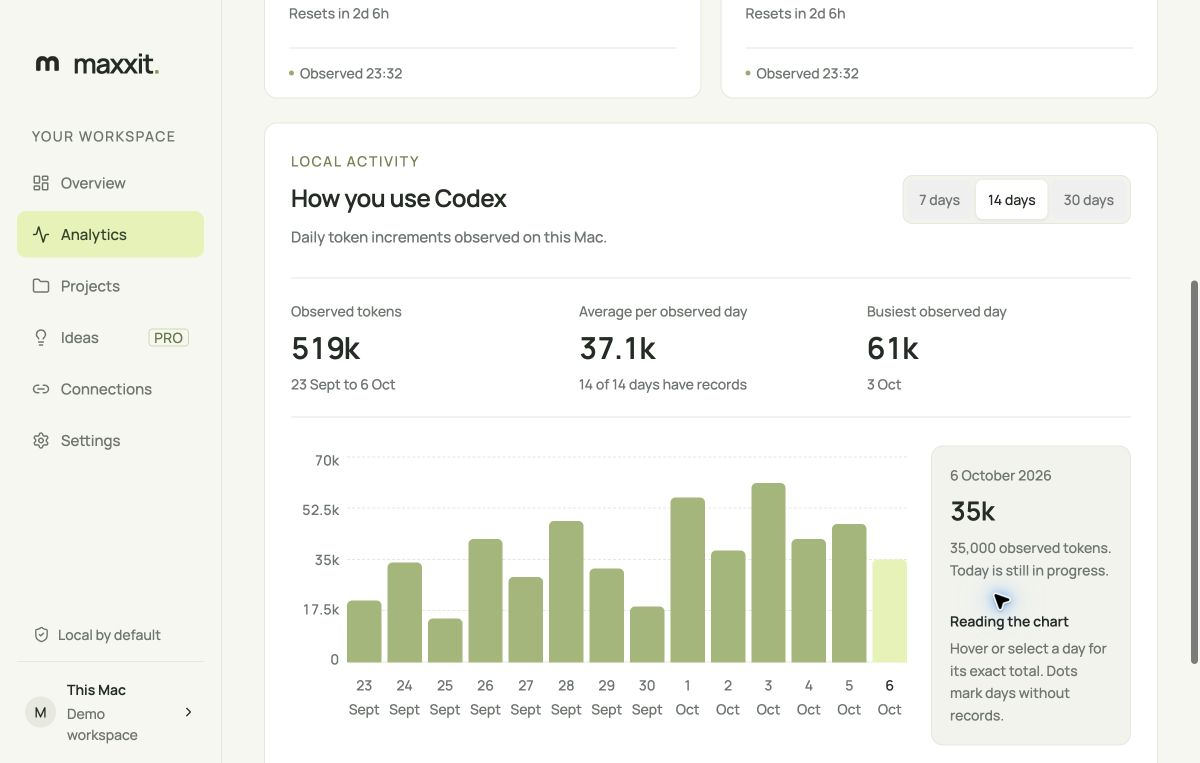
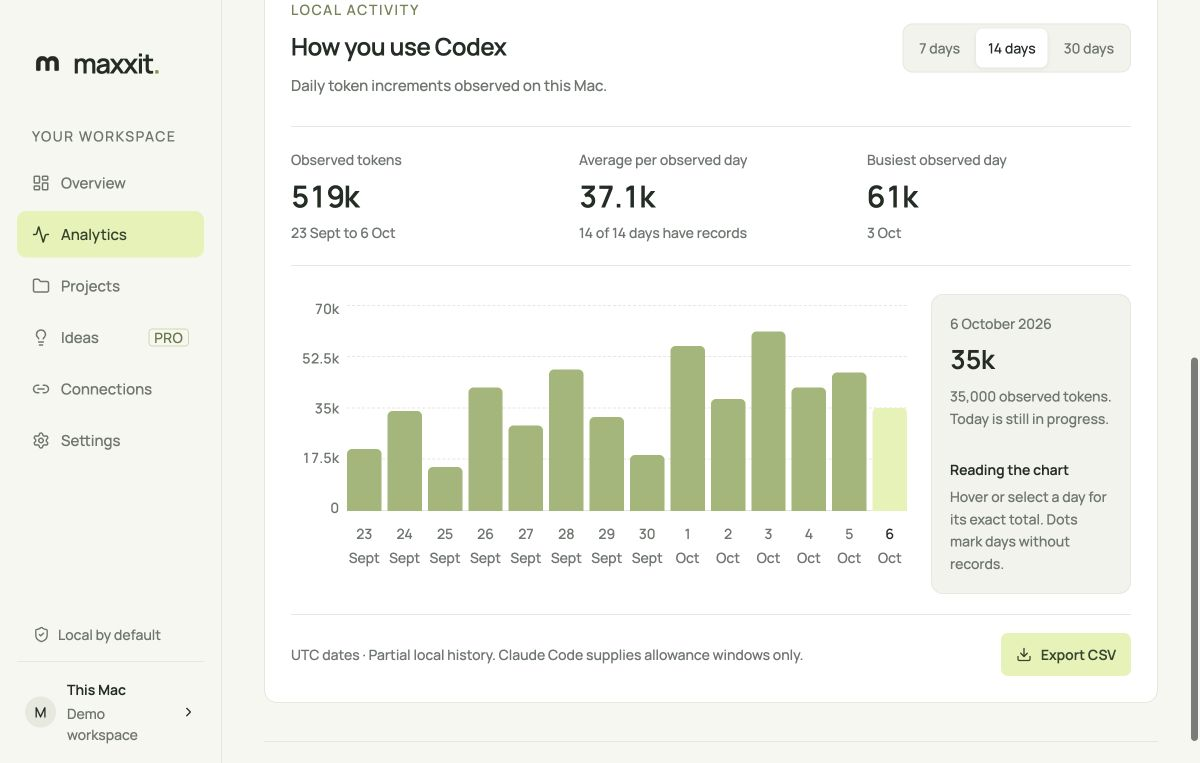
fix: save analytics exports through the native Mac dialog

diff --git a/src/TokenAnalytics.tsx b/src/TokenAnalytics.tsx
@@ -1,4 +1,5 @@
-import { useState } from "react";
+import { useEffect, useRef, useState } from "react";
+import { invoke, isTauri } from "@tauri-apps/api/core";
 import { Activity, Download } from "lucide-react";
 import { tokenSeries, tokenSummary, type TokenDay } from "./analytics";
 
@@ -18,6 +19,12 @@ const dateLabel = (date: string, full = false) =>
 export function TokenAnalytics({ records }: { records: TokenDay[] }) {
   const [range, setRange] = useState(14);
   const [selected, setSelected] = useState<string | null>(null);
+  const chartScroll = useRef<HTMLDivElement>(null);
+  const [exportStatus, setExportStatus] = useState("");
+  useEffect(() => {
+    if (chartScroll.current)
+      chartScroll.current.scrollLeft = chartScroll.current.scrollWidth;
+  }, [range]);
   const series = tokenSeries(records, range);
   const summary = tokenSummary(series);
   const day =
@@ -30,10 +37,22 @@ export function TokenAnalytics({ records }: { records: TokenDay[] }) {
           Math.pow(10, Math.floor(Math.log10(summary.peak.tokens))),
       )
     : 1;
-  const exportCsv = () => {
+  const exportCsv = async () => {
     const csv =
       "date_utc,observed_tokens\n" +
       series.map((item) => `${item.startDate},${item.tokens ?? ""}`).join("\n");
+    if (isTauri()) {
+      try {
+        const saved = await invoke<boolean>("export_token_csv", {
+          csv,
+          days: range,
+        });
+        setExportStatus(saved ? "CSV saved." : "Export canceled.");
+      } catch {
+        setExportStatus("Could not save CSV. Try another location.");
+      }
+      return;
+    }
     const url = URL.createObjectURL(
       new Blob([csv], { type: "text/csv;charset=utf-8" }),
     );
@@ -105,7 +124,7 @@ export function TokenAnalytics({ records }: { records: TokenDay[] }) {
       </div>
       {summary.observedDays ? (
         <div className="token-explorer">
-          <div className="token-chart-scroll">
+          <div className="token-chart-scroll" ref={chartScroll}>
             <div
               className="token-plot"
               style={{
@@ -200,6 +219,7 @@ export function TokenAnalytics({ records }: { records: TokenDay[] }) {
           </p>
         </div>
       )}
+      <p role="status">{exportStatus}</p>
       <div className="token-chart-footer">
         <p>
           UTC dates · Partial local history. Claude Code supplies allowance

diff --git a/src/styles.css b/src/styles.css
@@ -924,6 +924,7 @@ footer .muted {
   flex-shrink: 0;
 }
 .token-range button {
+  background: transparent;
   font-size: 14px;
   padding: 9px 12px;
   border-radius: 7px;

diff --git a/src-tauri/src/lib.rs b/src-tauri/src/lib.rs
@@ -15,6 +15,42 @@ use std::{
 };
 use storage::Store;
 use tauri::{Emitter, Manager, State};
+use tauri_plugin_dialog::DialogExt;
+
+#[tauri::command]
+async fn export_token_csv(app: tauri::AppHandle, csv: String, days: u32) -> Result<bool, String> {
+    if ![7, 14, 30].contains(&days)
+        || csv.len() > 10_000
+        || !csv.starts_with("date_utc,observed_tokens\n")
+    {
+        return Err("Invalid token export".into());
+    }
+    for line in csv.lines().skip(1) {
+        let (date, tokens) = line.split_once(',').ok_or("Invalid token export")?;
+        if date.len() != 10
+            || !date.chars().all(|c| c.is_ascii_digit() || c == '-')
+            || (!tokens.is_empty() && tokens.parse::<u64>().is_err())
+        {
+            return Err("Invalid token export".into());
+        }
+    }
+    tauri::async_runtime::spawn_blocking(move || {
+        let selected = app
+            .dialog()
+            .file()
+            .add_filter("CSV", &["csv"])
+            .set_file_name(format!("maxxit-codex-{days}-days.csv"))
+            .blocking_save_file();
+        let Some(selected) = selected else {
+            return Ok(false);
+        };
+        let path = selected.into_path().map_err(|e| e.to_string())?;
+        std::fs::write(path, csv).map_err(|e| e.to_string())?;
+        Ok(true)
+    })
+    .await
+    .map_err(|e| e.to_string())?
+}
 
 struct Runtime {
     store: Mutex<Store>,
@@ -569,6 +605,7 @@ pub fn run() {
         })
         .invoke_handler(tauri::generate_handler![
             snapshot,
+            export_token_csv,
             tray_action,
             tray_resize,
             save_settings,
